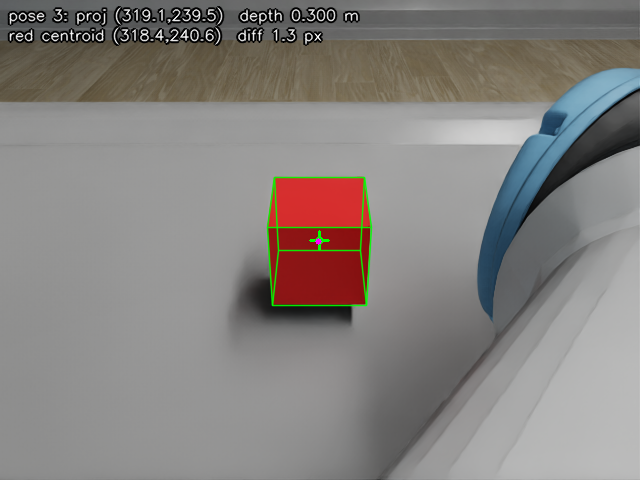
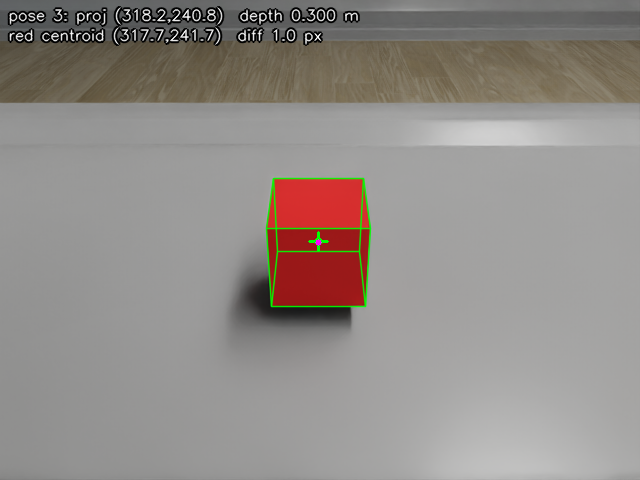
Check line of sight before moving the arm

diff --git a/ros2_ws/src/ur5e_isaac_bridge/scripts/capture_wrist_images.py b/ros2_ws/src/ur5e_isaac_bridge/scripts/capture_wrist_images.py
@@ -28,7 +28,7 @@ from moveit_msgs.msg import (
     MoveItErrorCodes,
     PlanningScene,
 )
-from moveit_msgs.srv import ApplyPlanningScene, GetPositionIK
+from moveit_msgs.srv import ApplyPlanningScene, GetPositionIK, GetStateValidity
 from rclpy.action import ActionClient
 from rclpy.duration import Duration
 from rclpy.node import Node
@@ -50,6 +50,7 @@ ARM_JOINTS = [
 
 MIN_CUBE_PIXELS = 3000  # the whole cube is about 9000+ px at these distances
 MAX_IK_TRIES = 3
+SIGHT_LINE_START = 0.06  # starts past the flange, or the wrist always touches it
 
 
 def red_pixels(bgr) -> int:
@@ -129,6 +130,7 @@ class WristCapture(Node):
         self.create_subscription(JointState, "/joint_states", self._on_joints, 50)
         self.ik = self.create_client(GetPositionIK, "/compute_ik")
         self.scene = self.create_client(ApplyPlanningScene, "/apply_planning_scene")
+        self.validity = self.create_client(GetStateValidity, "/check_state_validity")
         self.move = ActionClient(self, MoveGroup, "/move_action")
 
     def _on_image(self, msg):
@@ -157,6 +159,7 @@ class WristCapture(Node):
         if not self.ik.wait_for_service(timeout_sec=30) or not self.move.wait_for_server(timeout_sec=30):
             raise RuntimeError("move_group services are not available")
         self.scene.wait_for_service(timeout_sec=10)
+        self.validity.wait_for_service(timeout_sec=10)
 
     def current_joints(self) -> dict:
         return dict(self.joint_history[-1][1])
@@ -197,6 +200,63 @@ class WristCapture(Node):
         fut = self.scene.call_async(req)
         rclpy.spin_until_future_complete(self, fut, timeout_sec=10)
         self.get_logger().info("Planning scene: added target_cube and table")
+
+    def _set_sight_line(self, T_base_cam: np.ndarray, target, cube_size, add: bool):
+        obj = CollisionObject()
+        obj.header.frame_id = BASE
+        obj.id = "sight_line"
+        obj.operation = CollisionObject.ADD if add else CollisionObject.REMOVE
+        if add:
+            eye, axis = T_base_cam[:3, 3], T_base_cam[:3, 2]
+            length = np.linalg.norm(np.asarray(target) - eye) - cube_size - SIGHT_LINE_START
+            centre = eye + axis * (SIGHT_LINE_START + length / 2)
+            # a cylinder's axis is its z, same as the optical axis
+            obj.primitives.append(SolidPrimitive(type=SolidPrimitive.CYLINDER,
+                                                 dimensions=[float(length), cube_size / 2 + 0.01]))
+            p = Pose()
+            p.position.x, p.position.y, p.position.z = map(float, centre)
+            qx, qy, qz, qw = matrix_to_quat(T_base_cam[:3, :3])
+            p.orientation.x, p.orientation.y = float(qx), float(qy)
+            p.orientation.z, p.orientation.w = float(qz), float(qw)
+            obj.primitive_poses.append(p)
+        req = ApplyPlanningScene.Request()
+        req.scene = PlanningScene(is_diff=True)
+        req.scene.world.collision_objects = [obj]
+        fut = self.scene.call_async(req)
+        rclpy.spin_until_future_complete(self, fut, timeout_sec=10)
+
+    def blocking_links(self, joints) -> list[str]:
+        # robot links touching the sight line for this joint solution
+        req = GetStateValidity.Request()
+        req.group_name = GROUP
+        req.robot_state.joint_state.name = ARM_JOINTS
+        req.robot_state.joint_state.position = [float(v) for v in joints]
+        fut = self.validity.call_async(req)
+        rclpy.spin_until_future_complete(self, fut, timeout_sec=5)
+        res = fut.result()
+        links = set()
+        for c in res.contacts:
+            if "sight_line" in (c.contact_body_1, c.contact_body_2):
+                links.update({c.contact_body_1, c.contact_body_2} - {"sight_line"})
+        return sorted(links)
+
+    def clear_view_solutions(self, solutions, T_base_cam, target, cube_size) -> list[list[float]]:
+        """Keep the IK solutions that leave the camera's view of the cube clear.
+
+        The camera and cube positions are known before moving, so the line
+        between them is too. It only exists for this check, the planner doesn't
+        need to avoid it on the way there.
+        """
+        self._set_sight_line(T_base_cam, target, cube_size, True)
+        clear = []
+        for n, joints in enumerate(solutions):
+            links = self.blocking_links(joints)
+            if links:
+                self.get_logger().info(f"IK solution {n}: {', '.join(links)} in the line of sight, rejected")
+            else:
+                clear.append(joints)
+        self._set_sight_line(T_base_cam, target, cube_size, False)
+        return clear
 
     def solve_ik(self, tool_pose: np.ndarray, extra_seeds: int = 8) -> list[list[float]]:
         # KDL gives the branch nearest its seed. OMPL kept failing on far branches,
@@ -374,6 +434,11 @@ def main():
             if not solutions:
                 log.error(f"[{i}] no collision-free IK solution, skipping")
                 continue
+            if not args.eye:
+                solutions = node.clear_view_solutions(solutions, T_base_cam_goal, target, args.cube_size)
+                if not solutions:
+                    log.error(f"[{i}] every IK solution blocks the view, skipping")
+                    continue
             img = None
             for joints in solutions[:MAX_IK_TRIES]:
                 if not node.move_to_joints(joints):
@@ -381,11 +446,11 @@ def main():
                     continue
                 t_settled = node.wait_settled()
                 frame = node.grab_after(t_settled)
-                # some arm shapes put the forearm in front of the lens
+                # the sight line check is geometry, this one looks at the real image
                 if args.eye or red_pixels(node.bridge.imgmsg_to_cv2(frame, "bgr8")) >= MIN_CUBE_PIXELS:
                     img = frame
                     break
-                log.warn(f"[{i}] arm is blocking the cube, trying the next IK solution")
+                log.warn(f"[{i}] cube not visible in the image, trying the next IK solution")
             if img is None:
                 log.error(f"[{i}] no usable image, skipping")
                 continue

diff --git a/README.md b/README.md
@@ -2,7 +2,7 @@
 
 UR5e in Isaac Sim 6.0 driven by MoveIt on ROS 2 Jazzy. I added a wrist camera and a script that photographs a cube from 5 poses and checks the saved poses by projecting the cube back into the images.
 
-The projected cube centre lands 2.1 px on average (4.3 px max) from the centre of the red pixels. Annotated images are in `captures/annotated/`.
+The projected cube centre lands 1.9 px on average (4.2 px max) from the centre of the red pixels. Annotated images are in `captures/annotated/`.
 
 ![pose 1](captures/annotated/pose_01.png)
 
@@ -63,16 +63,16 @@ ros2 run ur5e_isaac_bridge capture_wrist_images.py --out captures
 ros2 run ur5e_isaac_bridge verify_projection.py captures
 ```
 
-Output from the run in `captures/`:
+Output from the run in `captures/`, a single run from the start pose with all 5 views done first try:
 
 ```
 pose   proj u   proj v  depth m in img  red px  diff px
-   0    319.4    241.0    0.350   True    8892      2.1
-   1    320.3    240.1    0.350   True   10548      1.3
-   2    320.8    239.3    0.350   True   10597      1.4
-   3    319.1    239.5    0.300   True   12502      1.3
-   4    320.0    238.3    0.299   True   10077      4.3
-projected centre vs red centroid: mean 2.1 px, max 4.3 px
+   0    319.9    239.6    0.350   True    8903      1.8
+   1    320.5    241.2    0.350   True   10527      1.2
+   2    320.6    239.5    0.350   True   10604      1.4
+   3    318.2    240.8    0.300   True   12537      1.0
+   4    320.5    239.7    0.299   True   10041      4.2
+projected centre vs red centroid: mean 1.9 px, max 4.2 px
 ```
 
 The cube is at (0.5, 0.0, 0.0403) in `base_link`, 5 cm edge. `poses.jsonl` has one line per image with the joint angles and the `base_link` to `camera_optical_frame` pose, looked up at the image stamp.
@@ -87,7 +87,9 @@ The cube is at (0.5, 0.0, 0.0403) in `base_link`, 5 cm edge. `poses.jsonl` has o
 
 **15 Hz.** Rendering steps at 60 Hz, the helpers publish every 4th frame. Stamps are sim time, I measured the rate from those (`ros2 topic hz` shows about 23 Hz since the sim runs faster than real time).
 
-**Poses.** Instead of tuning joint angles I pick camera positions on a sphere around the cube, build a look-at pose, convert it to `tool0` and get a joint goal from `/compute_ik`. The planner kept failing when IK returned a far branch, so it now tries a few seeds and takes the solution closest to the current joints. Some arm shapes put the forearm in front of the lens, which I only saw when a run started from a different pose. So the script now counts red pixels before saving and tries the next IK solution if the cube is blocked. There are 7 candidate views and it stops after 5 work.
+**Poses.** Instead of tuning joint angles I pick camera positions on a sphere around the cube, build a look-at pose, convert it to `tool0` and get a joint goal from `/compute_ik`. The planner kept failing when IK returned a far branch, so it now tries a few seeds and takes the solution closest to the current joints. There are 7 candidate views and it stops after 5 work.
+
+**Clear view.** Some arm shapes put the arm in front of the lens, which I only saw when a run started from a different pose. The camera and cube positions are known before moving, so the script adds a temporary cylinder between them to the planning scene and asks `/check_state_validity` about each IK solution. Solutions that touch it are dropped without moving the arm, and the cylinder is removed before planning. I still count red pixels before saving, because that is the only check that looks at the real image.
 
 **Arm stopped.** After MoveIt returns I wait until no joint moves more than 0.2 mrad over 0.5 s of sim time, then take the first image stamped after that. I use positions because PhysX reports small velocities at rest. TF is looked up at the image stamp.
 
@@ -99,7 +101,8 @@ The cube is at (0.5, 0.0, 0.0403) in `base_link`, 5 cm edge. `poses.jsonl` has o
 - `frameSkipCount` is deprecated in Isaac 6.0, the replacement is `omni:sensor:tickRate` on the camera prim. I kept it since the rate is exact.
 - The robot base sits about 1.5 cm into the `simple_room` table (table top is at z = 0.0153). The cube is on the real surface, but MoveIt's table is below z = 0 so the base doesn't collide with it.
 - OMPL is random, so planning sometimes fails (the near top-down view most often). The script retries and has spare views, so which 5 views you get can change between runs.
-- The check for a blocked cube looks for red pixels, so it only works with the red cube.
+- Both view checks need the cube position from `--cube-xyz`, which has to match the one given to `spawn_ur5e.py`. The script doesn't detect the cube. I tested it at (0.42, 0.2, 0.0403) with no code changes: 2.4 px mean, 4.2 px max.
+- The red pixel check only works with the red cube.
 - On a small screen RViz opens with the camera panel squashed under MotionPlanning. Close the Displays and MotionPlanning panels or drag the divider up (Panels menu brings them back). The arm also has to be pointing at the cube for it to show up in that panel.
 - Depth images not done.
 
